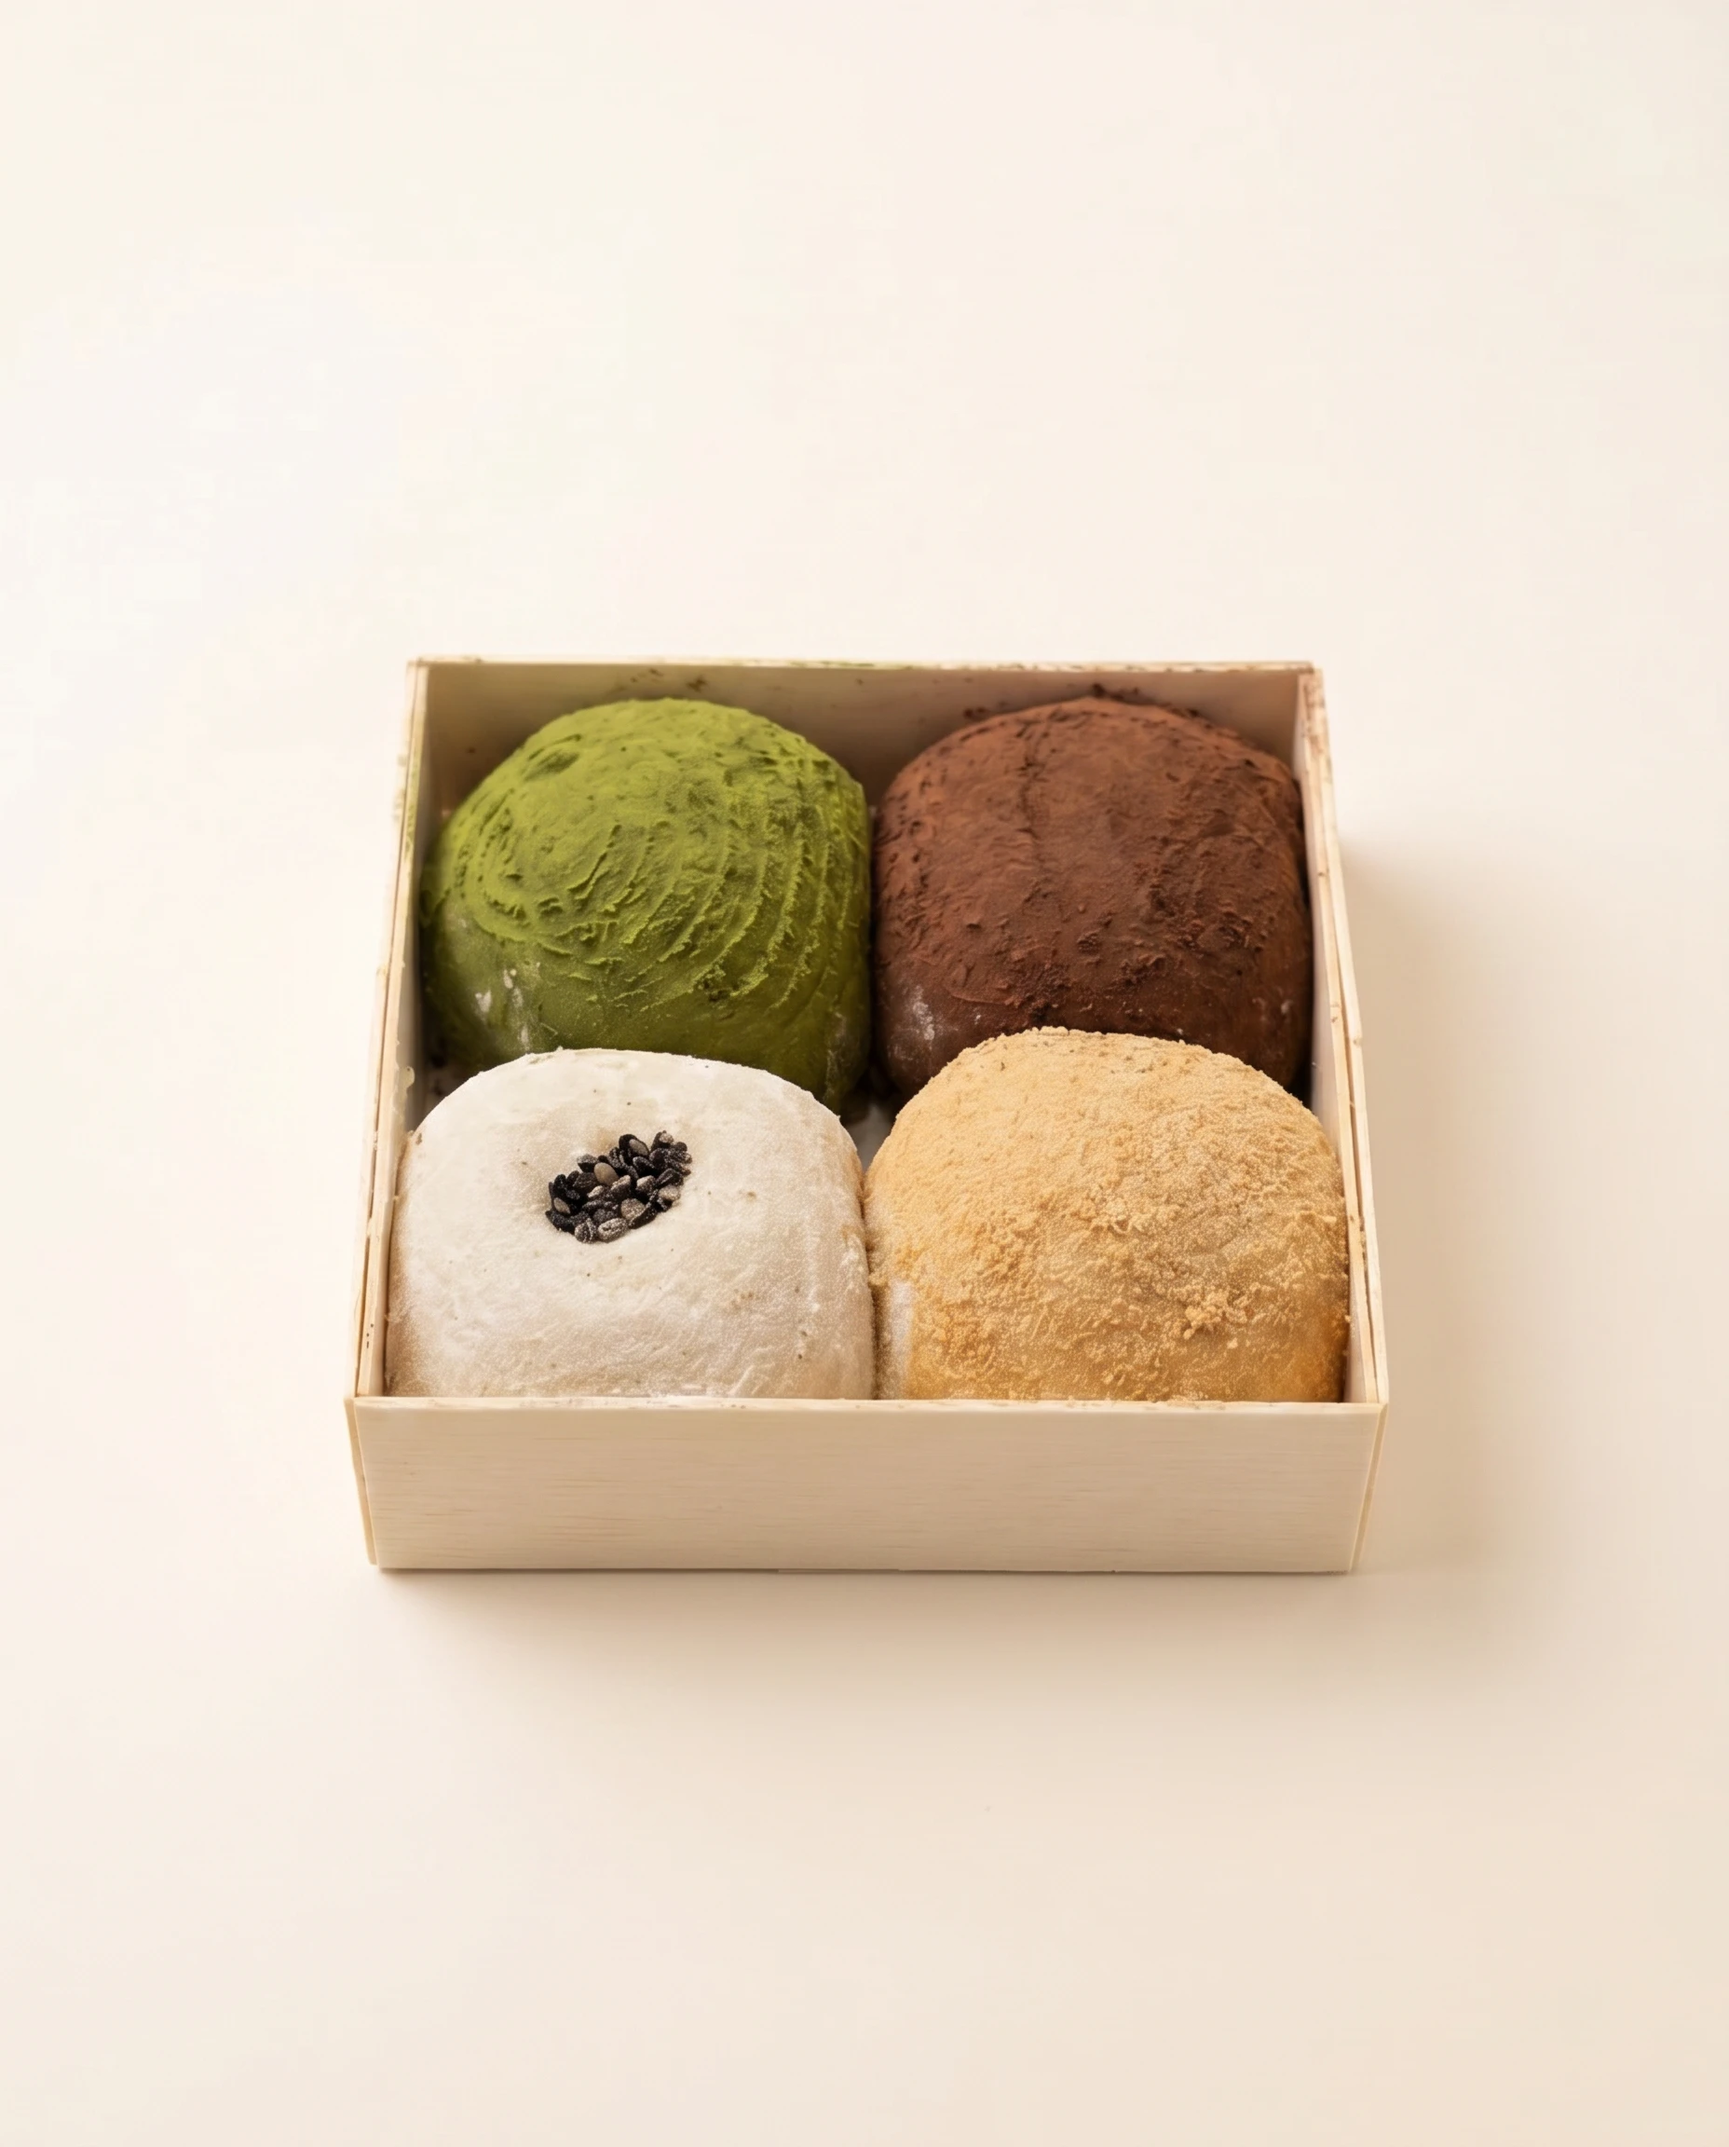
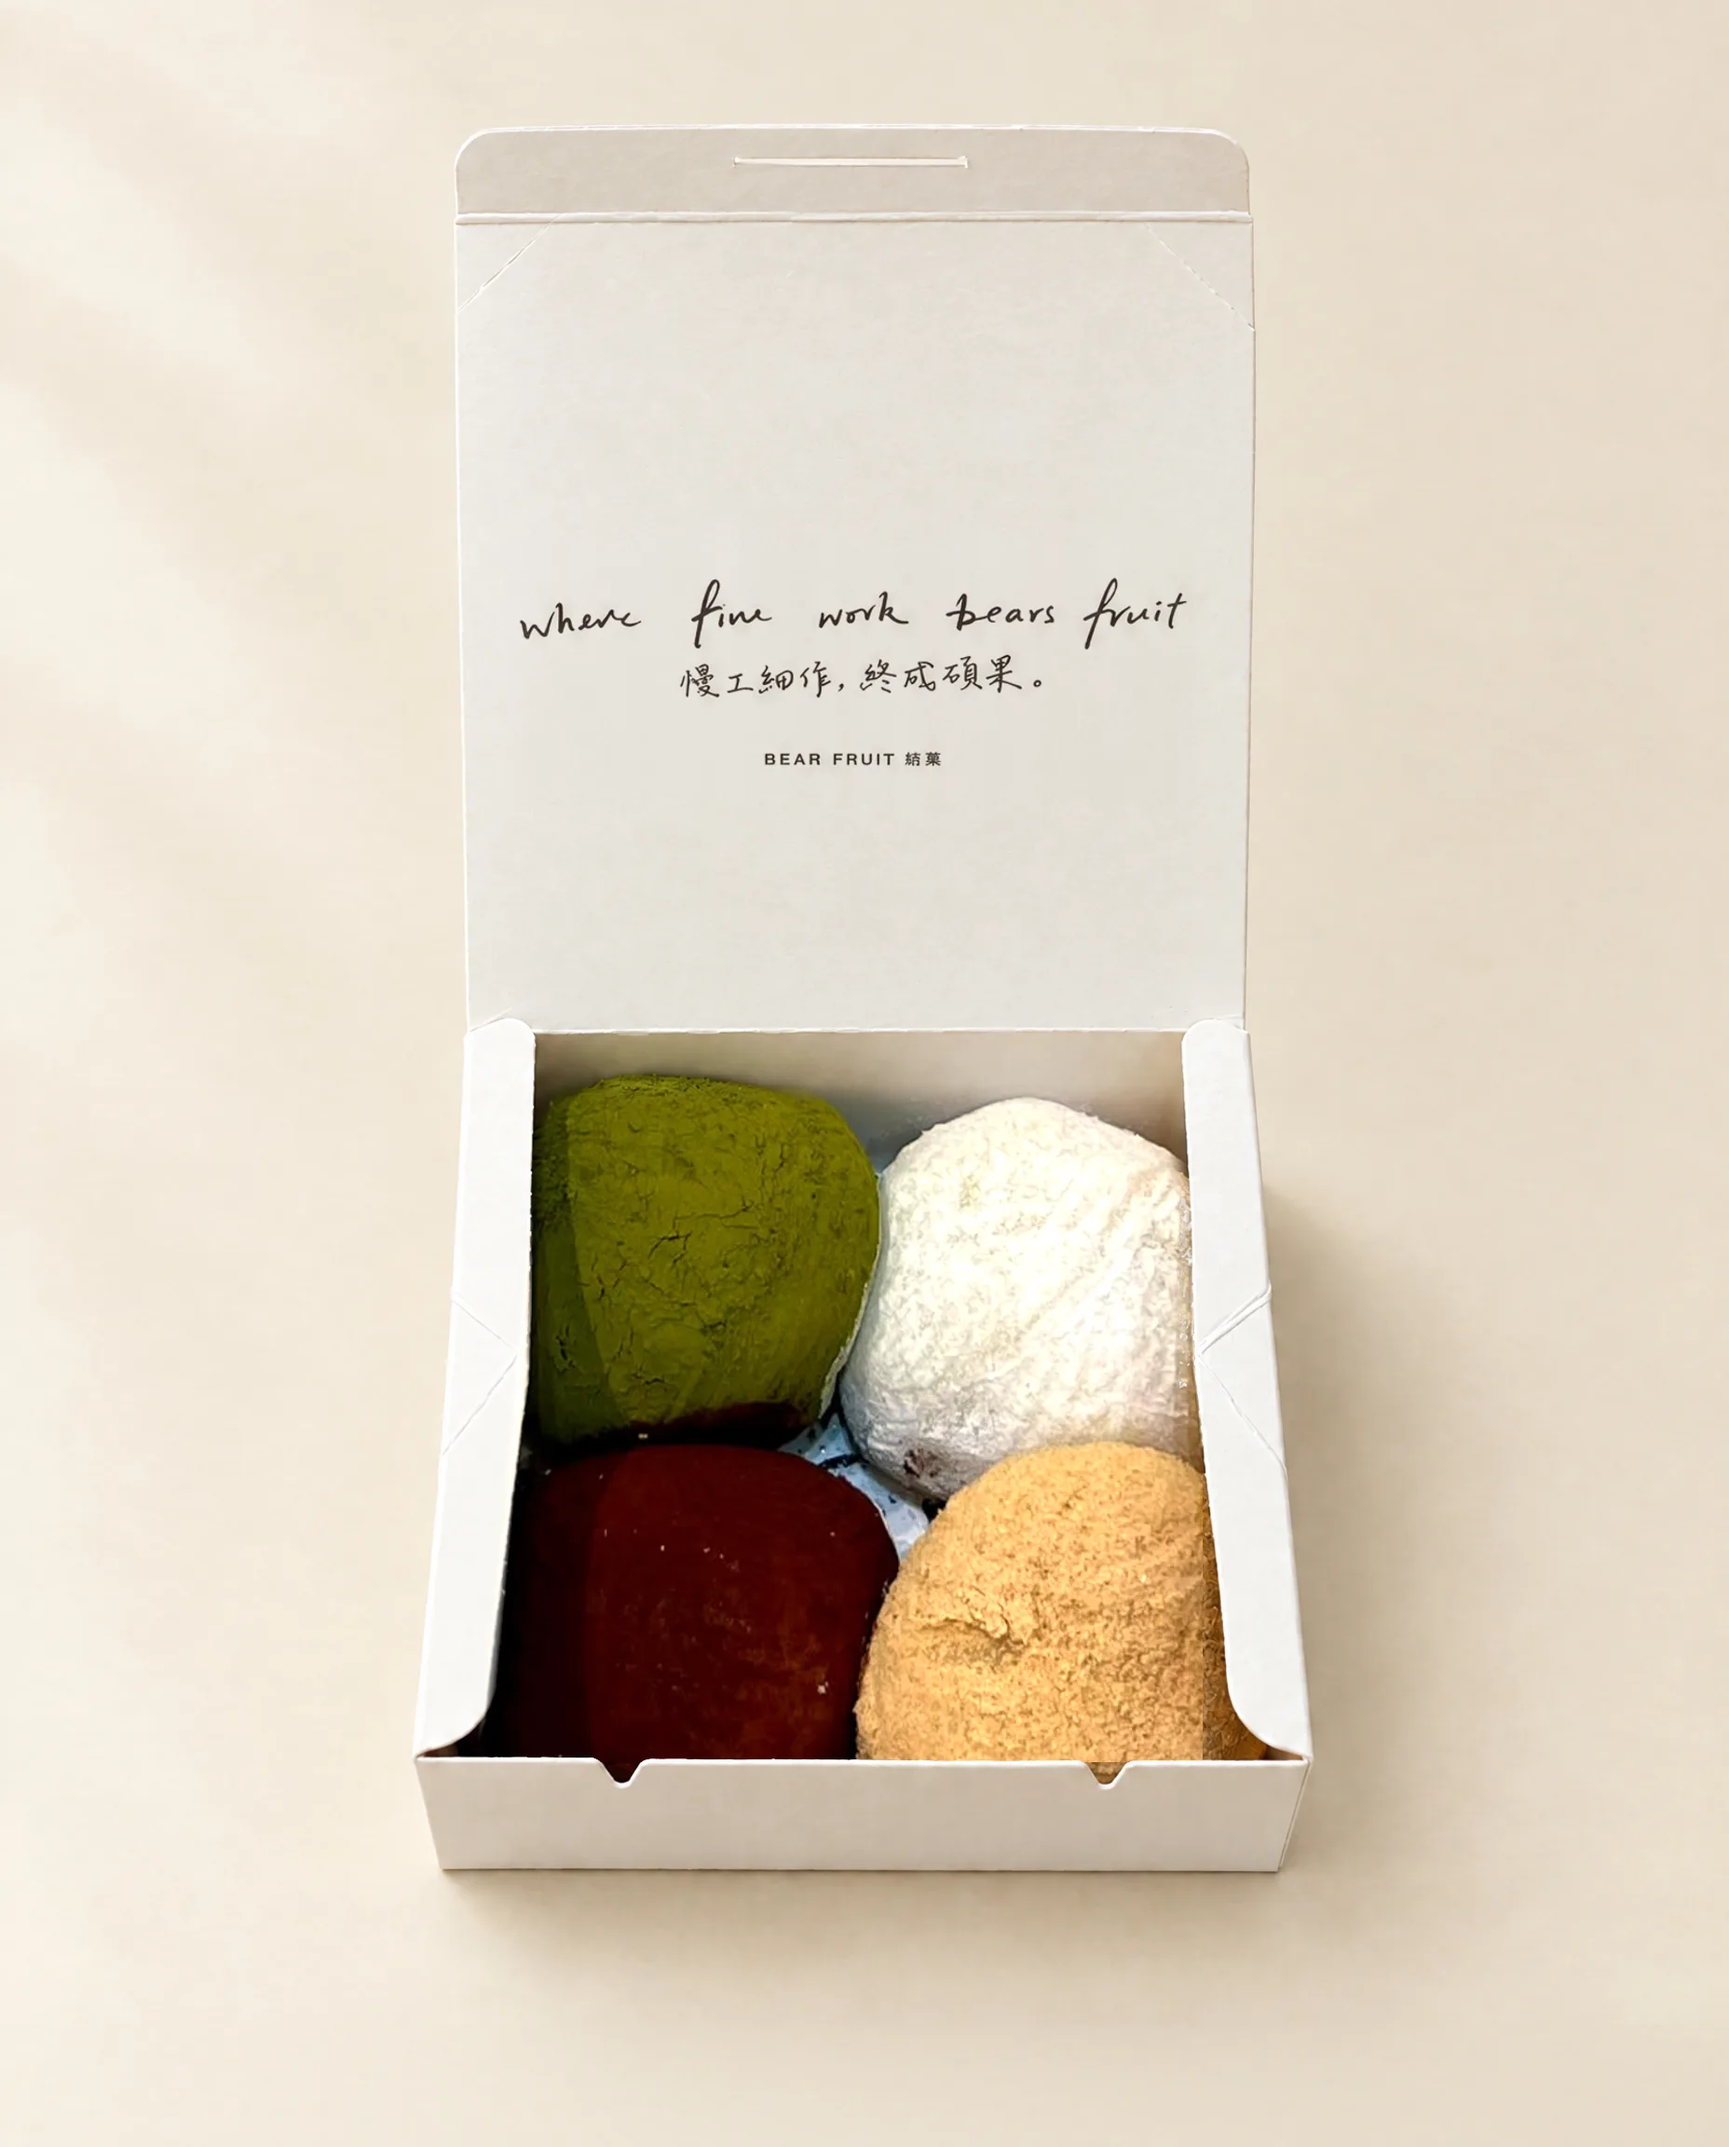
New mochi packaging photos with the real mochi
Bare Mochi and Stuffed Mochi show the new ivory tear-off box again.
This time the box was swapped in around the real food from the
previous photos (and the owner's own 4-piece photo) instead of having
it redrawn, so the mochi keep their real texture. The hero uses the
lid-off shots, the packaging list the lid-on shots, and the two cards
follow the hero.

diff --git a/bare-mochi.html b/bare-mochi.html
@@ -17,7 +17,7 @@
   <link rel="preconnect" href="https://fonts.gstatic.com" crossorigin>
   <link rel="stylesheet"
         href="https://fonts.googleapis.com/css2?family=Hanken+Grotesk:wght@300;400;500;600&family=Marcellus&family=Noto+Serif+TC:wght@300;400;500;600&display=swap">
-  <link rel="preload" as="image" href="images/products/bare-mochi/matcha-red-bean (12pcs).webp" fetchpriority="high">
+  <link rel="preload" as="image" href="images/products/bare-mochi/matcha-red-bean (12pcs) lid-off.webp" fetchpriority="high">
 
   <meta property="og:type" content="website">
   <meta property="og:title" content="Bare Mochi 裸麻糬 — Bear Fruit 結菓">
@@ -101,9 +101,9 @@
   <section class="pd-hero" aria-label="Product">
     <div class="pd-hero__media" id="pdMedia" data-rotate>
       <div class="ph" aria-hidden="true"><span class="ph-label">Bare Mochi</span><span class="ph-spec">images/products/bare-mochi/</span></div>
-      <img class="pd-hero__img is-active" src="images/products/bare-mochi/matcha-red-bean (12pcs).webp" alt="Bare Mochi 裸麻糬 — Matcha Red Bean 抹茶蜜紅豆" loading="eager" fetchpriority="high" onerror="this.remove()">
-      <img class="pd-hero__img" src="images/products/bare-mochi/sea-salt-cocoa-crunch (12pcs).webp" alt="Bare Mochi 裸麻糬 — Sea Salt Cocoa Crunch 奶蓋濃可可" loading="eager" onerror="this.remove()">
-      <img class="pd-hero__img" src="images/products/bare-mochi/kuromitsu-kinako (12pcs).webp" alt="Bare Mochi 裸麻糬 — Kuromitsu Kinako 黑糖黃豆粉" loading="eager" onerror="this.remove()">
+      <img class="pd-hero__img is-active" src="images/products/bare-mochi/matcha-red-bean (12pcs) lid-off.webp" alt="Bare Mochi 裸麻糬 — Matcha Red Bean 抹茶蜜紅豆" loading="eager" fetchpriority="high" onerror="this.remove()">
+      <img class="pd-hero__img" src="images/products/bare-mochi/sea-salt-cocoa-crunch (12pcs) lid-off.webp" alt="Bare Mochi 裸麻糬 — Sea Salt Cocoa Crunch 奶蓋濃可可" loading="eager" onerror="this.remove()">
+      <img class="pd-hero__img" src="images/products/bare-mochi/kuromitsu-kinako (12pcs) lid-off.webp" alt="Bare Mochi 裸麻糬 — Kuromitsu Kinako 黑糖黃豆粉" loading="eager" onerror="this.remove()">
     </div>
     <div class="pd-hero__info">
       <h1 class="pd-name" id="pdName">Bare Mochi<span class="pd-name-cjk">裸麻糬</span></h1>

diff --git a/product.html b/product.html
@@ -168,7 +168,7 @@
       descEn:'Soft, pillowy milk mochi, finished with carefully paired drizzles and toppings.',
       descTc:'軟糯的牛奶麻糬，配以精心調配的淋醬與配料。',
       folder:'images/products/bare-mochi/',
-      images:['images/products/bare-mochi/matcha-red-bean (12pcs).webp','images/products/bare-mochi/sea-salt-cocoa-crunch (12pcs).webp','images/products/bare-mochi/kuromitsu-kinako (12pcs).webp'],
+      images:['images/products/bare-mochi/matcha-red-bean (12pcs) lid-off.webp','images/products/bare-mochi/sea-salt-cocoa-crunch (12pcs) lid-off.webp','images/products/bare-mochi/kuromitsu-kinako (12pcs) lid-off.webp'],
       flavoursEn:['Matcha Red Bean','Sea Salt Cocoa Crunch','Kuromitsu Kinako'],
       flavoursTc:['抹茶蜜紅豆','奶蓋濃可可','黑糖黃豆粉'],
       pack:[{en:'6-Piece Box',tc:'6 件裝',price:'HK$30–32',imgs:['images/products/bare-mochi/matcha-red-bean (6pcs).webp','images/products/bare-mochi/sea-salt-cocoa-crunch (6pcs).webp','images/products/bare-mochi/kuromitsu-kinako (6pcs).webp']},{en:'12-Piece Box',tc:'12 件裝',price:'HK$40–42',imgs:['images/products/bare-mochi/matcha-red-bean (12pcs).webp','images/products/bare-mochi/sea-salt-cocoa-crunch (12pcs).webp','images/products/bare-mochi/kuromitsu-kinako (12pcs).webp']}]
@@ -177,7 +177,7 @@
       en:'Stuffed Mochi', tc:'包餡麻糬',
       descEn:'Soft milk mochi wrapping a perfectly balanced filling. Available in six flavours.',
       descTc:'軟糯煙韌的牛奶麻糬，包裹著比例適中的內餡，備有六款口味。',
-      images:['images/products/stuffed-mochi/stuffed-mochi (6pcs).webp'],
+      images:['images/products/stuffed-mochi/stuffed-mochi (6pcs) lid-off.webp'],
       flavoursEn:['Roasted Kinako','Hazelnut Chocolate','Peanut Crunch','Premium Pistachio','Black & White Sesame','Matcha Red Bean'],
       flavoursTc:['經典黃豆粉','榛子朱古力','花生糖不甩','特濃開心果','芝麻黑白配','抹茶蜜紅豆'],
       pack:[

diff --git a/stuffed-mochi.html b/stuffed-mochi.html
@@ -17,7 +17,7 @@
   <link rel="preconnect" href="https://fonts.gstatic.com" crossorigin>
   <link rel="stylesheet"
         href="https://fonts.googleapis.com/css2?family=Hanken+Grotesk:wght@300;400;500;600&family=Marcellus&family=Noto+Serif+TC:wght@300;400;500;600&display=swap">
-  <link rel="preload" as="image" href="images/products/stuffed-mochi/stuffed-mochi (6pcs).webp" fetchpriority="high">
+  <link rel="preload" as="image" href="images/products/stuffed-mochi/stuffed-mochi (6pcs) lid-off.webp" fetchpriority="high">
 
   <meta property="og:type" content="website">
   <meta property="og:title" content="Stuffed Mochi 包餡麻糬 — Bear Fruit 結菓">
@@ -100,8 +100,8 @@
   <!-- ══ HERO: photo + name + description ══ -->
   <section class="pd-hero" aria-label="Product">
     <div class="pd-hero__media" id="pdMedia">
-      <div class="ph" aria-hidden="true"><span class="ph-label">Stuffed Mochi</span><span class="ph-spec">images/products/stuffed-mochi/stuffed-mochi (6pcs).webp</span></div>
-      <img class="pd-hero__img is-active" src="images/products/stuffed-mochi/stuffed-mochi (6pcs).webp" alt="Stuffed Mochi 包餡麻糬" loading="eager" fetchpriority="high" onerror="this.remove()">
+      <div class="ph" aria-hidden="true"><span class="ph-label">Stuffed Mochi</span><span class="ph-spec">images/products/stuffed-mochi/stuffed-mochi (6pcs) lid-off.webp</span></div>
+      <img class="pd-hero__img is-active" src="images/products/stuffed-mochi/stuffed-mochi (6pcs) lid-off.webp" alt="Stuffed Mochi 包餡麻糬" loading="eager" fetchpriority="high" onerror="this.remove()">
     </div>
     <div class="pd-hero__info">
       <h1 class="pd-name" id="pdName">Stuffed Mochi<span class="pd-name-cjk">包餡麻糬</span></h1>
